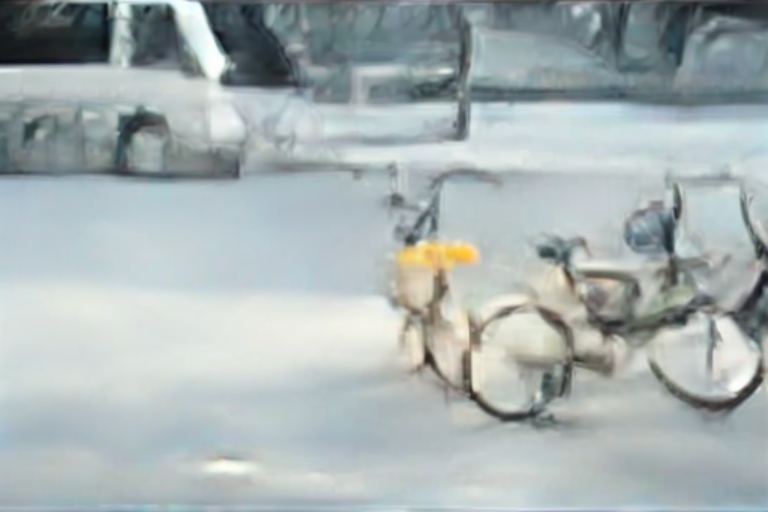
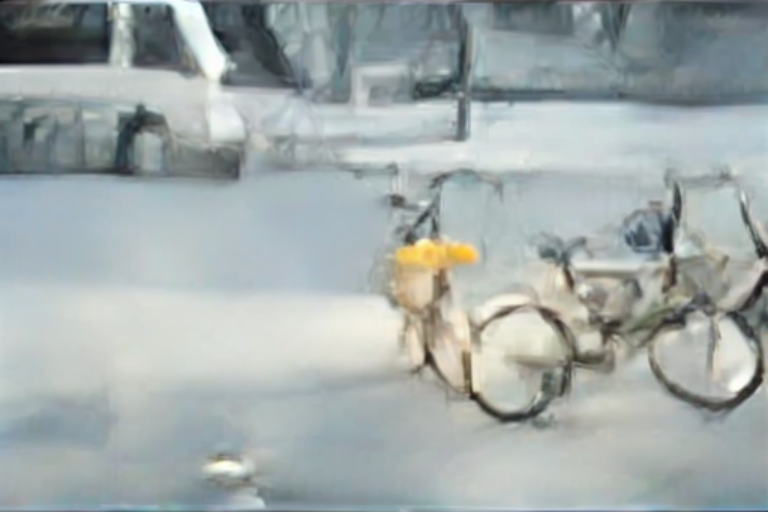
Refresh composite examples

diff --git a/index.html b/index.html
@@ -1152,32 +1152,6 @@
           </article>
 
           <article>
-            <h3>DSC05762</h3>
-            <div class="slider-pair">
-              <div class="slider-container" id="slider7">
-                <div class="image-wrapper">
-                  <img src="images/composite/DSC05762/I_blended.png" alt="Input image DSC05762">
-                  <img src="images/composite/DSC05762/T_transmission.png" class="result-image" alt="Transmission layer DSC05762">
-                </div>
-                <div class="slider-bar"></div>
-                <div class="slider-handle"></div>
-                <div class="image-label label-left">Input</div>
-                <div class="image-label label-right">Transmission</div>
-              </div>
-              <div class="slider-container" id="slider8">
-                <div class="image-wrapper">
-                  <img src="images/composite/DSC05762/R_pred_resized.png" alt="Reflection layer DSC05762">
-                  <img src="images/composite/DSC05762/R_high_pred.png" class="result-image" alt="Reflection scene DSC05762">
-                </div>
-                <div class="slider-bar"></div>
-                <div class="slider-handle"></div>
-                <div class="image-label label-left">Reflection</div>
-                <div class="image-label label-right">Reflection Scene</div>
-              </div>
-            </div>
-          </article>
-
-          <article>
             <h3>DSC06752</h3>
             <div class="slider-pair">
               <div class="slider-container" id="slider9">
@@ -1192,7 +1166,7 @@
               </div>
               <div class="slider-container" id="slider10">
                 <div class="image-wrapper">
-                  <img src="images/composite/DSC06752/R_pred_resized.png" alt="Reflection layer DSC06752">
+                  <img src="images/composite/DSC06752/R_ori_pred.png" alt="Reflection layer DSC06752">
                   <img src="images/composite/DSC06752/R_high_pred.png" class="result-image" alt="Reflection scene DSC06752">
                 </div>
                 <div class="slider-bar"></div>
